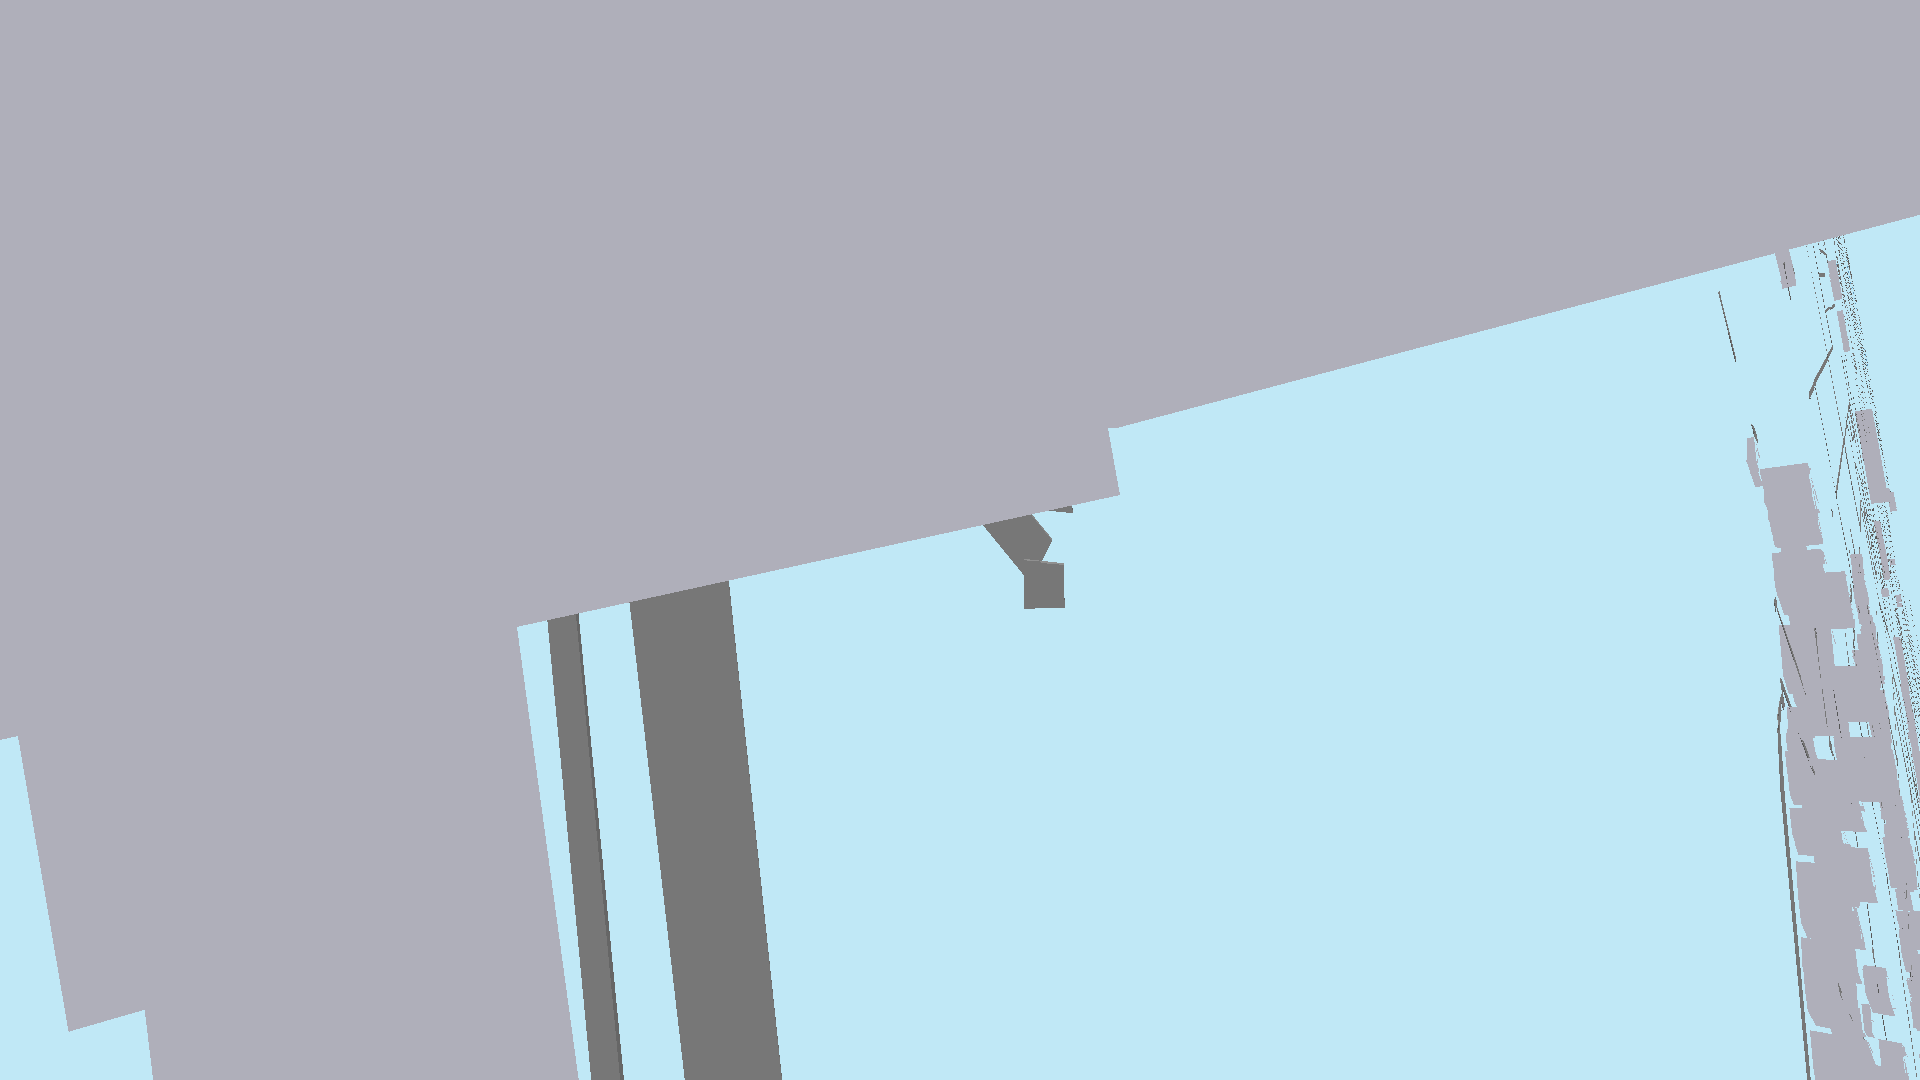
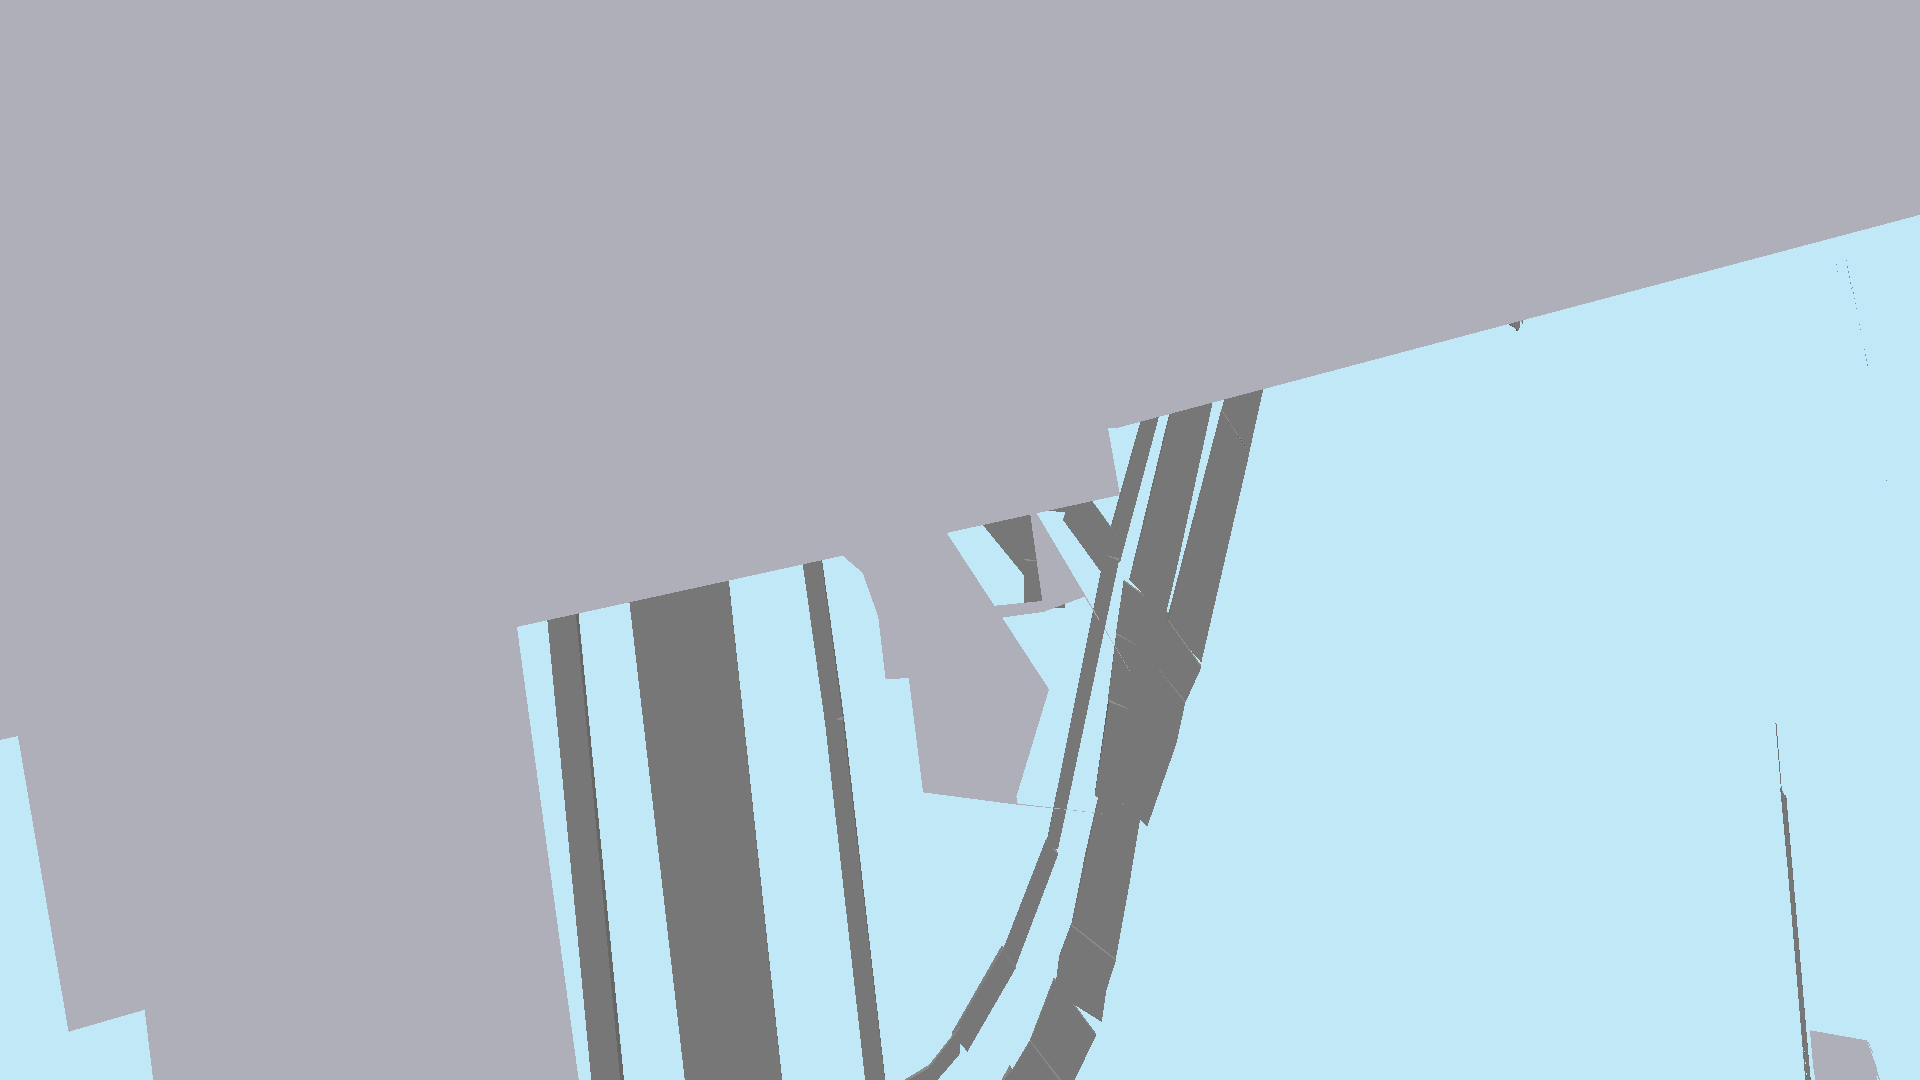
feat(mesh): distance-based geometry filtering for dense local coverage
Replaces arbitrary 5000-building cap with smart distance filtering.

Changes:
- New generate_mesh_from_osm_filtered() with radius parameter
- Distance check for buildings and road segments
- GPU buffer limit (268MB) as only hard constraint
- Detailed logging (rendered/skipped by distance/buffer)

Results (500m radius test):
- 261 buildings vs 55,319 across entire dataset
- 2,298 road segments vs 112k+ total
- 3.6MB buffer vs 200MB (55x headroom)
- Geometry concentrated around camera, not spread across 10km

Visual improvement confirmed via screenshot comparison:
- Buildings show proper depth and perspective
- 3D structure visible from all angles
- Foundation for movement-based streaming (walk/drive/fly modes)

Next: Frustum culling, textures, architectural detail

Changed region(s): [[0.4062, 0.3667, 0.6562, 1.0], [0.9062, 0.3667, 1.0, 1.0], [0.9062, 0.2444, 0.9688, 0.3361]]

diff --git a/src/svo_integration.rs b/src/svo_integration.rs
@@ -34,6 +34,24 @@ impl ColoredVertex {
 ///
 /// Uses ACTUAL building polygons (not boxes), 3D road volumes, and water surfaces
 pub fn generate_mesh_from_osm(osm_data: &OsmData) -> (Vec<ColoredVertex>, Vec<u32>) {
+    // Default: use large radius to get all data (for testing/screenshots)
+    generate_mesh_from_osm_filtered(osm_data, None, f64::INFINITY)
+}
+
+/// Generate mesh from OSM data with distance filtering
+///
+/// Only includes geometry within `max_distance_m` from `camera_pos`.
+/// Uses GPU buffer limit as hard stop, not arbitrary building count.
+///
+/// # Arguments
+/// * `osm_data` - OSM data to render
+/// * `camera_pos` - Camera position in GPS coords (for distance filtering). None = no filtering
+/// * `max_distance_m` - Maximum distance from camera to include geometry
+pub fn generate_mesh_from_osm_filtered(
+    osm_data: &OsmData,
+    camera_pos: Option<&GpsPos>,
+    max_distance_m: f64,
+) -> (Vec<ColoredVertex>, Vec<u32>) {
     let mut vertices = Vec::new();
     let mut indices = Vec::new();
     
@@ -41,14 +59,35 @@ pub fn generate_mesh_from_osm(osm_data: &OsmData) -> (Vec<ColoredVertex>, Vec<u3
     let road_color = glam::Vec3::new(0.3, 0.3, 0.3);
     let water_color = glam::Vec3::new(0.2, 0.5, 0.8);
     
-    // Generate buildings using ACTUAL polygons from OSM
-    // Limit to stay under GPU buffer (268MB max)
-    let mut buildings_added = 0;
-    let max_buildings = 5000; // Reduced to make room for 3D roads
+    // Convert camera position to ECEF for distance calculations
+    let camera_ecef = camera_pos.map(|gps| {
+        let ecef = gps_to_ecef(gps);
+        glam::DVec3::new(ecef.x, ecef.y, ecef.z)
+    });
     
-    for building in osm_data.buildings.iter().take(max_buildings) {
+    // Generate buildings using ACTUAL polygons from OSM
+    // NO arbitrary limit - only GPU buffer capacity matters
+    let mut buildings_added = 0;
+    let mut buildings_skipped_distance = 0;
+    let mut buildings_skipped_buffer = 0;
+    
+    for building in &osm_data.buildings {
         if building.polygon.len() < 3 {
             continue;
+        }
+        
+        // Distance filtering (if camera position provided)
+        if let Some(cam_ecef) = camera_ecef {
+            // Use building center for distance check
+            let center_gps = building.polygon.first().unwrap();
+            let building_ecef = gps_to_ecef(center_gps);
+            let building_pos = glam::DVec3::new(building_ecef.x, building_ecef.y, building_ecef.z);
+            
+            let distance = (building_pos - cam_ecef).length();
+            if distance > max_distance_m {
+                buildings_skipped_distance += 1;
+                continue;
+            }
         }
         
         let footprint: Vec<(f64, f64)> = building.polygon
@@ -66,10 +105,10 @@ pub fn generate_mesh_from_osm(osm_data: &OsmData) -> (Vec<ColoredVertex>, Vec<u3
             building_color,
         );
         
-        // Skip if this would push us over GPU limits
+        // Skip if this would push us over GPU limits (268MB max per buffer)
         let new_vertex_size = (vertices.len() + bldg_verts.len()) * 40; // 40 bytes per vertex
-        if new_vertex_size > 200_000_000 { // 200MB safety margin (wgpu limit is 268MB)
-            println!("  Stopping at {} buildings (GPU buffer limit approaching)", buildings_added);
+        if new_vertex_size > 200_000_000 { // 200MB safety margin
+            buildings_skipped_buffer += 1;
             break;
         }
         
@@ -91,9 +130,10 @@ pub fn generate_mesh_from_osm(osm_data: &OsmData) -> (Vec<ColoredVertex>, Vec<u3
     }
     
     // Generate roads as 3D volumes (30cm thick boxes with 6 faces)
-    // Limit road segments to stay under GPU buffer
-    let max_road_segments = 50000; // ~1.8M vertices (72MB) for roads
-    let mut segments_added = 0;
+    // NO arbitrary segment limit - only GPU buffer capacity matters
+    let mut road_segments_added = 0;
+    let mut road_segments_skipped_distance = 0;
+    let mut road_segments_skipped_buffer = 0;
     
     for road in &osm_data.roads {
         if road.nodes.len() < 2 {
@@ -104,11 +144,36 @@ pub fn generate_mesh_from_osm(osm_data: &OsmData) -> (Vec<ColoredVertex>, Vec<u3
         let thickness = 0.3; // 30cm road thickness
         
         for i in 0..road.nodes.len() - 1 {
-            if segments_added >= max_road_segments {
-                break;
-            }
             let node1 = &road.nodes[i];
             let node2 = &road.nodes[i + 1];
+            
+            // Distance filtering (if camera position provided)
+            if let Some(cam_ecef) = camera_ecef {
+                // Use segment midpoint for distance check
+                let mid_lat = (node1.lat_deg + node2.lat_deg) / 2.0;
+                let mid_lon = (node1.lon_deg + node2.lon_deg) / 2.0;
+                let mid_elev = (node1.elevation_m + node2.elevation_m) / 2.0;
+                
+                let mid_ecef = gps_to_ecef(&GpsPos {
+                    lat_deg: mid_lat,
+                    lon_deg: mid_lon,
+                    elevation_m: mid_elev,
+                });
+                let mid_pos = glam::DVec3::new(mid_ecef.x, mid_ecef.y, mid_ecef.z);
+                
+                let distance = (mid_pos - cam_ecef).length();
+                if distance > max_distance_m {
+                    road_segments_skipped_distance += 1;
+                    continue;
+                }
+            }
+            
+            // Check GPU buffer limit before adding
+            let new_vertex_size = (vertices.len() + 36) * 40; // 36 vertices per road segment
+            if new_vertex_size > 200_000_000 {
+                road_segments_skipped_buffer += 1;
+                continue; // Skip this segment but keep trying (maybe later roads are closer)
+            }
             
             let pos1_ecef = gps_to_ecef(&GpsPos {
                 lat_deg: node1.lat_deg,
@@ -138,11 +203,7 @@ pub fn generate_mesh_from_osm(osm_data: &OsmData) -> (Vec<ColoredVertex>, Vec<u3
                 indices.push(offset + tri * 3 + 2);
             }
             
-            segments_added += 1;
-        }
-        
-        if segments_added >= max_road_segments {
-            break;
+            road_segments_added += 1;
         }
     }
     
@@ -182,9 +243,28 @@ pub fn generate_mesh_from_osm(osm_data: &OsmData) -> (Vec<ColoredVertex>, Vec<u3
         }
     }
     
-    println!("Generated mesh: {} buildings (of {}), {} road segments, {} water = {} vertices, {} indices",
-        buildings_added, osm_data.buildings.len(), segments_added, osm_data.water.len(),
-        vertices.len(), indices.len());
+    // Logging
+    let total_buildings = osm_data.buildings.len();
+    let total_roads = osm_data.roads.len();
+    let total_water = osm_data.water.len();
+    
+    if camera_pos.is_some() && max_distance_m < f64::INFINITY {
+        println!("Generated mesh with distance filtering ({}m radius):", max_distance_m);
+        println!("  Buildings: {} rendered, {} skipped (distance), {} skipped (buffer), {} total",
+            buildings_added, buildings_skipped_distance, buildings_skipped_buffer, total_buildings);
+        println!("  Roads: {} segments, {} skipped (distance), {} skipped (buffer)",
+            road_segments_added, road_segments_skipped_distance, road_segments_skipped_buffer);
+        println!("  Water: {} features", total_water);
+    } else {
+        println!("Generated mesh (no distance filtering):");
+        println!("  Buildings: {} rendered, {} skipped (buffer), {} total",
+            buildings_added, buildings_skipped_buffer, total_buildings);
+        println!("  Roads: {} segments, {} skipped (buffer)",
+            road_segments_added, road_segments_skipped_buffer);
+        println!("  Water: {} features", total_water);
+    }
+    println!("  Result: {} vertices, {} indices ({:.1}MB vertex buffer)",
+        vertices.len(), indices.len(), (vertices.len() * 40) as f32 / 1_000_000.0);
     
     (vertices, indices)
 }

diff --git a/examples/capture_screenshots.rs b/examples/capture_screenshots.rs
@@ -6,7 +6,7 @@
 use metaverse_core::renderer::{camera::Camera, pipeline::BasicPipeline, Renderer};
 use metaverse_core::osm::OsmData;
 use metaverse_core::cache::DiskCache;
-use metaverse_core::svo_integration::generate_mesh_from_osm;
+use metaverse_core::svo_integration::generate_mesh_from_osm_filtered;
 use metaverse_core::coordinates::{gps_to_ecef, GpsPos};
 use std::sync::Arc;
 use std::fs;
@@ -338,8 +338,13 @@ impl ApplicationHandler for ScreenshotApp {
             println!("  {} buildings", osm_data.buildings.len());
             println!("  {} roads\n", osm_data.roads.len());
             
-            // Generate mesh
-            let (vertices, indices) = generate_mesh_from_osm(&osm_data);
+            // Generate mesh with distance filtering
+            // Use 500m radius to get dense urban coverage around camera
+            let (vertices, indices) = generate_mesh_from_osm_filtered(
+                &osm_data,
+                Some(&TEST_GPS),
+                500.0, // 500m radius - dense coverage like walking mode
+            );
             println!("Generated {} vertices, {} indices\n", vertices.len(), indices.len());
     
             // Create buffers
